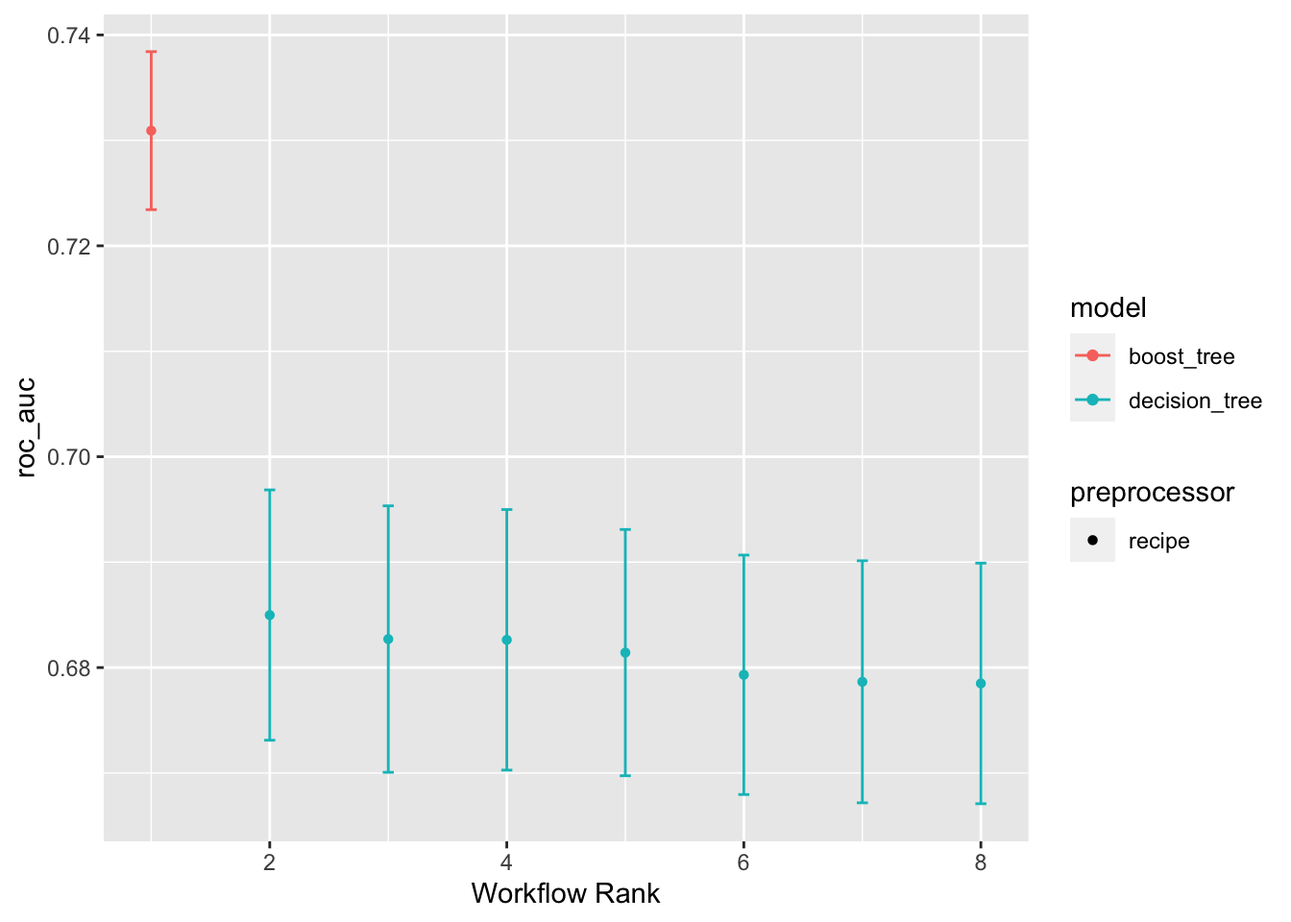
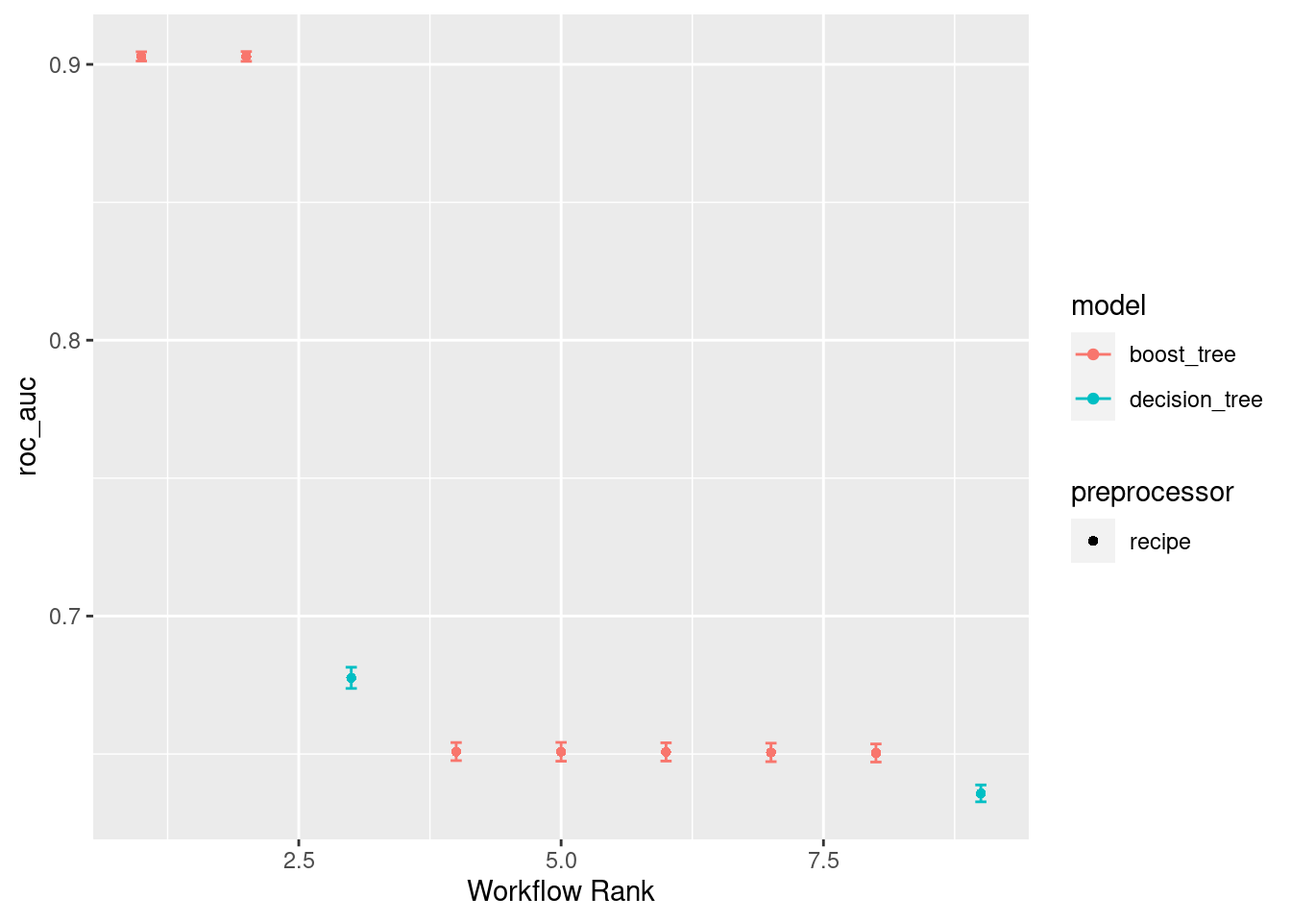
Two recipes.

diff --git a/docs/dengue-model/dengue_classification_symptoms_conditions_multi.html b/docs/dengue-model/dengue_classification_symptoms_conditions_multi.html
@@ -465,7 +465,7 @@ The following object is masked from 'package:utils':
 ✖ dplyr::lag()      masks stats::lag()
 ✖ yardstick::spec() masks readr::spec()
 ✖ recipes::step()   masks stats::step()
-• Dig deeper into tidy modeling with R at https://www.tmwr.org</code></pre>
+• Use suppressPackageStartupMessages() to eliminate package startup messages</code></pre>
 </div>
 <div class="sourceCode cell-code" id="cb7"><pre class="sourceCode r code-with-copy"><code class="sourceCode r"><span id="cb7-1"><a href="#cb7-1" aria-hidden="true" tabindex="-1"></a><span class="fu">library</span>(finetune)</span>
 <span id="cb7-2"><a href="#cb7-2" aria-hidden="true" tabindex="-1"></a><span class="fu">library</span>(tictoc)</span>
@@ -546,10 +546,16 @@ The following object is masked from 'package:utils':
 <section id="recipes" class="level3">
 <h3 class="anchored" data-anchor-id="recipes">Recipes</h3>
 <div class="cell">
-<div class="sourceCode cell-code" id="cb12"><pre class="sourceCode r code-with-copy"><code class="sourceCode r"><span id="cb12-1"><a href="#cb12-1" aria-hidden="true" tabindex="-1"></a>dengue_rec_1 <span class="ot">&lt;-</span> </span>
-<span id="cb12-2"><a href="#cb12-2" aria-hidden="true" tabindex="-1"></a>  <span class="fu">recipe</span>(CLASSI_FIN <span class="sc">~</span> . , <span class="at">data =</span> dengue_train) <span class="sc">%&gt;%</span></span>
-<span id="cb12-3"><a href="#cb12-3" aria-hidden="true" tabindex="-1"></a>  <span class="fu">step_date</span>(DT_SIN_PRI, <span class="at">features =</span> <span class="fu">c</span>(<span class="st">"month"</span>, <span class="st">"week"</span>, <span class="st">"semester"</span>, <span class="st">"quarter"</span>), <span class="at">keep_original_cols =</span> <span class="cn">FALSE</span>) <span class="sc">%&gt;%</span></span>
-<span id="cb12-4"><a href="#cb12-4" aria-hidden="true" tabindex="-1"></a>  <span class="fu">step_integer</span>(<span class="fu">all_predictors</span>())</span></code><button title="Copy to Clipboard" class="code-copy-button"><i class="bi"></i></button></pre></div>
+<div class="sourceCode cell-code" id="cb12"><pre class="sourceCode r code-with-copy"><code class="sourceCode r"><span id="cb12-1"><a href="#cb12-1" aria-hidden="true" tabindex="-1"></a><span class="co"># All variables</span></span>
+<span id="cb12-2"><a href="#cb12-2" aria-hidden="true" tabindex="-1"></a>dengue_rec_1 <span class="ot">&lt;-</span> </span>
+<span id="cb12-3"><a href="#cb12-3" aria-hidden="true" tabindex="-1"></a>  <span class="fu">recipe</span>(CLASSI_FIN <span class="sc">~</span> . , <span class="at">data =</span> dengue_train) <span class="sc">%&gt;%</span></span>
+<span id="cb12-4"><a href="#cb12-4" aria-hidden="true" tabindex="-1"></a>  <span class="fu">step_date</span>(DT_SIN_PRI, <span class="at">features =</span> <span class="fu">c</span>(<span class="st">"month"</span>, <span class="st">"week"</span>, <span class="st">"semester"</span>, <span class="st">"quarter"</span>), <span class="at">keep_original_cols =</span> <span class="cn">FALSE</span>) <span class="sc">%&gt;%</span></span>
+<span id="cb12-5"><a href="#cb12-5" aria-hidden="true" tabindex="-1"></a>  <span class="fu">step_integer</span>(<span class="fu">all_predictors</span>())</span></code><button title="Copy to Clipboard" class="code-copy-button"><i class="bi"></i></button></pre></div>
+</div>
+<div class="cell">
+<div class="sourceCode cell-code" id="cb13"><pre class="sourceCode r code-with-copy"><code class="sourceCode r"><span id="cb13-1"><a href="#cb13-1" aria-hidden="true" tabindex="-1"></a><span class="co"># Without municipality code</span></span>
+<span id="cb13-2"><a href="#cb13-2" aria-hidden="true" tabindex="-1"></a>dengue_rec_2 <span class="ot">&lt;-</span> dengue_rec_1 <span class="sc">%&gt;%</span></span>
+<span id="cb13-3"><a href="#cb13-3" aria-hidden="true" tabindex="-1"></a>  <span class="fu">step_rm</span>(COMUNINF)</span></code><button title="Copy to Clipboard" class="code-copy-button"><i class="bi"></i></button></pre></div>
 </div>
 </section>
 <section id="specifications" class="level3">
@@ -557,62 +563,62 @@ The following object is masked from 'package:utils':
 <section id="xgb" class="level4">
 <h4 class="anchored" data-anchor-id="xgb">XGB</h4>
 <div class="cell">
-<div class="sourceCode cell-code" id="cb13"><pre class="sourceCode r code-with-copy"><code class="sourceCode r"><span id="cb13-1"><a href="#cb13-1" aria-hidden="true" tabindex="-1"></a>xgb_spec <span class="ot">&lt;-</span></span>
-<span id="cb13-2"><a href="#cb13-2" aria-hidden="true" tabindex="-1"></a>  <span class="fu">boost_tree</span>(</span>
-<span id="cb13-3"><a href="#cb13-3" aria-hidden="true" tabindex="-1"></a>    <span class="at">trees =</span> <span class="fu">tune</span>(),</span>
-<span id="cb13-4"><a href="#cb13-4" aria-hidden="true" tabindex="-1"></a>    <span class="at">min_n =</span> <span class="fu">tune</span>(),</span>
-<span id="cb13-5"><a href="#cb13-5" aria-hidden="true" tabindex="-1"></a>    <span class="at">mtry =</span> <span class="fu">tune</span>(),</span>
-<span id="cb13-6"><a href="#cb13-6" aria-hidden="true" tabindex="-1"></a>    <span class="at">learn_rate =</span> <span class="fl">0.01</span></span>
-<span id="cb13-7"><a href="#cb13-7" aria-hidden="true" tabindex="-1"></a>  ) <span class="sc">%&gt;%</span></span>
-<span id="cb13-8"><a href="#cb13-8" aria-hidden="true" tabindex="-1"></a>  <span class="fu">set_engine</span>(<span class="st">"xgboost"</span>) <span class="sc">%&gt;%</span></span>
-<span id="cb13-9"><a href="#cb13-9" aria-hidden="true" tabindex="-1"></a>  <span class="fu">set_mode</span>(<span class="st">"classification"</span>)</span></code><button title="Copy to Clipboard" class="code-copy-button"><i class="bi"></i></button></pre></div>
+<div class="sourceCode cell-code" id="cb14"><pre class="sourceCode r code-with-copy"><code class="sourceCode r"><span id="cb14-1"><a href="#cb14-1" aria-hidden="true" tabindex="-1"></a>xgb_spec <span class="ot">&lt;-</span></span>
+<span id="cb14-2"><a href="#cb14-2" aria-hidden="true" tabindex="-1"></a>  <span class="fu">boost_tree</span>(</span>
+<span id="cb14-3"><a href="#cb14-3" aria-hidden="true" tabindex="-1"></a>    <span class="at">trees =</span> <span class="fu">tune</span>(),</span>
+<span id="cb14-4"><a href="#cb14-4" aria-hidden="true" tabindex="-1"></a>    <span class="at">min_n =</span> <span class="fu">tune</span>(),</span>
+<span id="cb14-5"><a href="#cb14-5" aria-hidden="true" tabindex="-1"></a>    <span class="at">mtry =</span> <span class="fu">tune</span>(),</span>
+<span id="cb14-6"><a href="#cb14-6" aria-hidden="true" tabindex="-1"></a>    <span class="at">learn_rate =</span> <span class="fl">0.01</span></span>
+<span id="cb14-7"><a href="#cb14-7" aria-hidden="true" tabindex="-1"></a>  ) <span class="sc">%&gt;%</span></span>
+<span id="cb14-8"><a href="#cb14-8" aria-hidden="true" tabindex="-1"></a>  <span class="fu">set_engine</span>(<span class="st">"xgboost"</span>) <span class="sc">%&gt;%</span></span>
+<span id="cb14-9"><a href="#cb14-9" aria-hidden="true" tabindex="-1"></a>  <span class="fu">set_mode</span>(<span class="st">"classification"</span>)</span></code><button title="Copy to Clipboard" class="code-copy-button"><i class="bi"></i></button></pre></div>
 </div>
 </section>
 <section id="decision-tree" class="level4">
 <h4 class="anchored" data-anchor-id="decision-tree">Decision tree</h4>
 <div class="cell">
-<div class="sourceCode cell-code" id="cb14"><pre class="sourceCode r code-with-copy"><code class="sourceCode r"><span id="cb14-1"><a href="#cb14-1" aria-hidden="true" tabindex="-1"></a>cart_spec <span class="ot">&lt;-</span></span>
-<span id="cb14-2"><a href="#cb14-2" aria-hidden="true" tabindex="-1"></a>  <span class="fu">decision_tree</span>(</span>
-<span id="cb14-3"><a href="#cb14-3" aria-hidden="true" tabindex="-1"></a>    <span class="at">cost_complexity =</span> <span class="fu">tune</span>(), </span>
-<span id="cb14-4"><a href="#cb14-4" aria-hidden="true" tabindex="-1"></a>    <span class="at">min_n =</span> <span class="fu">tune</span>()</span>
-<span id="cb14-5"><a href="#cb14-5" aria-hidden="true" tabindex="-1"></a>  ) <span class="sc">%&gt;%</span> </span>
-<span id="cb14-6"><a href="#cb14-6" aria-hidden="true" tabindex="-1"></a>  <span class="fu">set_engine</span>(<span class="st">"rpart"</span>) <span class="sc">%&gt;%</span> </span>
-<span id="cb14-7"><a href="#cb14-7" aria-hidden="true" tabindex="-1"></a>  <span class="fu">set_mode</span>(<span class="st">"classification"</span>)</span></code><button title="Copy to Clipboard" class="code-copy-button"><i class="bi"></i></button></pre></div>
+<div class="sourceCode cell-code" id="cb15"><pre class="sourceCode r code-with-copy"><code class="sourceCode r"><span id="cb15-1"><a href="#cb15-1" aria-hidden="true" tabindex="-1"></a>cart_spec <span class="ot">&lt;-</span></span>
+<span id="cb15-2"><a href="#cb15-2" aria-hidden="true" tabindex="-1"></a>  <span class="fu">decision_tree</span>(</span>
+<span id="cb15-3"><a href="#cb15-3" aria-hidden="true" tabindex="-1"></a>    <span class="at">cost_complexity =</span> <span class="fu">tune</span>(), </span>
+<span id="cb15-4"><a href="#cb15-4" aria-hidden="true" tabindex="-1"></a>    <span class="at">min_n =</span> <span class="fu">tune</span>()</span>
+<span id="cb15-5"><a href="#cb15-5" aria-hidden="true" tabindex="-1"></a>  ) <span class="sc">%&gt;%</span> </span>
+<span id="cb15-6"><a href="#cb15-6" aria-hidden="true" tabindex="-1"></a>  <span class="fu">set_engine</span>(<span class="st">"rpart"</span>) <span class="sc">%&gt;%</span> </span>
+<span id="cb15-7"><a href="#cb15-7" aria-hidden="true" tabindex="-1"></a>  <span class="fu">set_mode</span>(<span class="st">"classification"</span>)</span></code><button title="Copy to Clipboard" class="code-copy-button"><i class="bi"></i></button></pre></div>
 </div>
 </section>
 </section>
 <section id="workflows" class="level3">
 <h3 class="anchored" data-anchor-id="workflows">Workflows</h3>
 <div class="cell">
-<div class="sourceCode cell-code" id="cb15"><pre class="sourceCode r code-with-copy"><code class="sourceCode r"><span id="cb15-1"><a href="#cb15-1" aria-hidden="true" tabindex="-1"></a>all_workflows <span class="ot">&lt;-</span> </span>
-<span id="cb15-2"><a href="#cb15-2" aria-hidden="true" tabindex="-1"></a>  <span class="fu">workflow_set</span>(</span>
-<span id="cb15-3"><a href="#cb15-3" aria-hidden="true" tabindex="-1"></a>    <span class="at">preproc =</span> <span class="fu">list</span>(<span class="at">recipe_1 =</span> dengue_rec_1),</span>
-<span id="cb15-4"><a href="#cb15-4" aria-hidden="true" tabindex="-1"></a>    <span class="at">models =</span> <span class="fu">list</span>(<span class="at">xgb =</span> xgb_spec, <span class="at">cart =</span> cart_spec)</span>
-<span id="cb15-5"><a href="#cb15-5" aria-hidden="true" tabindex="-1"></a>  )</span></code><button title="Copy to Clipboard" class="code-copy-button"><i class="bi"></i></button></pre></div>
+<div class="sourceCode cell-code" id="cb16"><pre class="sourceCode r code-with-copy"><code class="sourceCode r"><span id="cb16-1"><a href="#cb16-1" aria-hidden="true" tabindex="-1"></a>all_workflows <span class="ot">&lt;-</span> </span>
+<span id="cb16-2"><a href="#cb16-2" aria-hidden="true" tabindex="-1"></a>  <span class="fu">workflow_set</span>(</span>
+<span id="cb16-3"><a href="#cb16-3" aria-hidden="true" tabindex="-1"></a>    <span class="at">preproc =</span> <span class="fu">list</span>(<span class="at">recipe_1 =</span> dengue_rec_1, <span class="at">recipe_2 =</span> dengue_rec_2),</span>
+<span id="cb16-4"><a href="#cb16-4" aria-hidden="true" tabindex="-1"></a>    <span class="at">models =</span> <span class="fu">list</span>(<span class="at">xgb =</span> xgb_spec, <span class="at">cart =</span> cart_spec)</span>
+<span id="cb16-5"><a href="#cb16-5" aria-hidden="true" tabindex="-1"></a>  )</span></code><button title="Copy to Clipboard" class="code-copy-button"><i class="bi"></i></button></pre></div>
 </div>
 </section>
 <section id="tuning" class="level3">
 <h3 class="anchored" data-anchor-id="tuning">Tuning</h3>
 <div class="cell">
-<div class="sourceCode cell-code" id="cb16"><pre class="sourceCode r code-with-copy"><code class="sourceCode r"><span id="cb16-1"><a href="#cb16-1" aria-hidden="true" tabindex="-1"></a>doParallel<span class="sc">::</span><span class="fu">registerDoParallel</span>()</span>
-<span id="cb16-2"><a href="#cb16-2" aria-hidden="true" tabindex="-1"></a></span>
-<span id="cb16-3"><a href="#cb16-3" aria-hidden="true" tabindex="-1"></a>race_ctrl <span class="ot">&lt;-</span></span>
-<span id="cb16-4"><a href="#cb16-4" aria-hidden="true" tabindex="-1"></a>   <span class="fu">control_race</span>(</span>
-<span id="cb16-5"><a href="#cb16-5" aria-hidden="true" tabindex="-1"></a>      <span class="at">save_pred =</span> <span class="cn">TRUE</span>,</span>
-<span id="cb16-6"><a href="#cb16-6" aria-hidden="true" tabindex="-1"></a>      <span class="at">parallel_over =</span> <span class="st">"everything"</span>,</span>
-<span id="cb16-7"><a href="#cb16-7" aria-hidden="true" tabindex="-1"></a>      <span class="at">save_workflow =</span> <span class="cn">TRUE</span></span>
-<span id="cb16-8"><a href="#cb16-8" aria-hidden="true" tabindex="-1"></a>   )</span>
-<span id="cb16-9"><a href="#cb16-9" aria-hidden="true" tabindex="-1"></a></span>
-<span id="cb16-10"><a href="#cb16-10" aria-hidden="true" tabindex="-1"></a><span class="fu">tic</span>()</span>
-<span id="cb16-11"><a href="#cb16-11" aria-hidden="true" tabindex="-1"></a>race_results <span class="ot">&lt;-</span> </span>
-<span id="cb16-12"><a href="#cb16-12" aria-hidden="true" tabindex="-1"></a>  all_workflows <span class="sc">%&gt;%</span></span>
-<span id="cb16-13"><a href="#cb16-13" aria-hidden="true" tabindex="-1"></a>  <span class="fu">workflow_map</span>(</span>
-<span id="cb16-14"><a href="#cb16-14" aria-hidden="true" tabindex="-1"></a>    <span class="st">"tune_race_anova"</span>,</span>
-<span id="cb16-15"><a href="#cb16-15" aria-hidden="true" tabindex="-1"></a>    <span class="at">seed =</span> <span class="dv">345</span>,</span>
-<span id="cb16-16"><a href="#cb16-16" aria-hidden="true" tabindex="-1"></a>    <span class="at">resamples =</span> dengue_folds,</span>
-<span id="cb16-17"><a href="#cb16-17" aria-hidden="true" tabindex="-1"></a>    <span class="at">grid =</span> <span class="dv">15</span>,</span>
-<span id="cb16-18"><a href="#cb16-18" aria-hidden="true" tabindex="-1"></a>    <span class="at">control =</span> race_ctrl</span>
-<span id="cb16-19"><a href="#cb16-19" aria-hidden="true" tabindex="-1"></a>  )</span></code><button title="Copy to Clipboard" class="code-copy-button"><i class="bi"></i></button></pre></div>
+<div class="sourceCode cell-code" id="cb17"><pre class="sourceCode r code-with-copy"><code class="sourceCode r"><span id="cb17-1"><a href="#cb17-1" aria-hidden="true" tabindex="-1"></a>doParallel<span class="sc">::</span><span class="fu">registerDoParallel</span>()</span>
+<span id="cb17-2"><a href="#cb17-2" aria-hidden="true" tabindex="-1"></a></span>
+<span id="cb17-3"><a href="#cb17-3" aria-hidden="true" tabindex="-1"></a>race_ctrl <span class="ot">&lt;-</span></span>
+<span id="cb17-4"><a href="#cb17-4" aria-hidden="true" tabindex="-1"></a>   <span class="fu">control_race</span>(</span>
+<span id="cb17-5"><a href="#cb17-5" aria-hidden="true" tabindex="-1"></a>      <span class="at">save_pred =</span> <span class="cn">TRUE</span>,</span>
+<span id="cb17-6"><a href="#cb17-6" aria-hidden="true" tabindex="-1"></a>      <span class="at">parallel_over =</span> <span class="st">"everything"</span>,</span>
+<span id="cb17-7"><a href="#cb17-7" aria-hidden="true" tabindex="-1"></a>      <span class="at">save_workflow =</span> <span class="cn">TRUE</span></span>
+<span id="cb17-8"><a href="#cb17-8" aria-hidden="true" tabindex="-1"></a>   )</span>
+<span id="cb17-9"><a href="#cb17-9" aria-hidden="true" tabindex="-1"></a></span>
+<span id="cb17-10"><a href="#cb17-10" aria-hidden="true" tabindex="-1"></a><span class="fu">tic</span>()</span>
+<span id="cb17-11"><a href="#cb17-11" aria-hidden="true" tabindex="-1"></a>race_results <span class="ot">&lt;-</span> </span>
+<span id="cb17-12"><a href="#cb17-12" aria-hidden="true" tabindex="-1"></a>  all_workflows <span class="sc">%&gt;%</span></span>
+<span id="cb17-13"><a href="#cb17-13" aria-hidden="true" tabindex="-1"></a>  <span class="fu">workflow_map</span>(</span>
+<span id="cb17-14"><a href="#cb17-14" aria-hidden="true" tabindex="-1"></a>    <span class="st">"tune_race_anova"</span>,</span>
+<span id="cb17-15"><a href="#cb17-15" aria-hidden="true" tabindex="-1"></a>    <span class="at">seed =</span> <span class="dv">345</span>,</span>
+<span id="cb17-16"><a href="#cb17-16" aria-hidden="true" tabindex="-1"></a>    <span class="at">resamples =</span> dengue_folds,</span>
+<span id="cb17-17"><a href="#cb17-17" aria-hidden="true" tabindex="-1"></a>    <span class="at">grid =</span> <span class="dv">15</span>,</span>
+<span id="cb17-18"><a href="#cb17-18" aria-hidden="true" tabindex="-1"></a>    <span class="at">control =</span> race_ctrl</span>
+<span id="cb17-19"><a href="#cb17-19" aria-hidden="true" tabindex="-1"></a>  )</span></code><button title="Copy to Clipboard" class="code-copy-button"><i class="bi"></i></button></pre></div>
 <div class="cell-output cell-output-stderr">
 <pre><code>i Creating pre-processing data to finalize unknown parameter: mtry</code></pre>
 </div>
@@ -661,38 +667,88 @@ this was not intentional, please set the control setting ℹ `save_workflow =
 FALSE`.
 ℹ The workflow being saved contains a recipe, which is 7.48 Mb in ℹ memory. If
 this was not intentional, please set the control setting ℹ `save_workflow =
+FALSE`.</code></pre>
+</div>
+<div class="cell-output cell-output-stderr">
+<pre><code>i Creating pre-processing data to finalize unknown parameter: mtry</code></pre>
+</div>
+<div class="cell-output cell-output-stderr">
+<pre><code>ℹ The workflow being saved contains a recipe, which is 7.48 Mb in ℹ memory. If
+this was not intentional, please set the control setting ℹ `save_workflow =
+FALSE`.
+ℹ The workflow being saved contains a recipe, which is 7.48 Mb in ℹ memory. If
+this was not intentional, please set the control setting ℹ `save_workflow =
+FALSE`.
+ℹ The workflow being saved contains a recipe, which is 7.48 Mb in ℹ memory. If
+this was not intentional, please set the control setting ℹ `save_workflow =
+FALSE`.
+ℹ The workflow being saved contains a recipe, which is 7.48 Mb in ℹ memory. If
+this was not intentional, please set the control setting ℹ `save_workflow =
+FALSE`.
+ℹ The workflow being saved contains a recipe, which is 7.48 Mb in ℹ memory. If
+this was not intentional, please set the control setting ℹ `save_workflow =
+FALSE`.
+ℹ The workflow being saved contains a recipe, which is 7.48 Mb in ℹ memory. If
+this was not intentional, please set the control setting ℹ `save_workflow =
+FALSE`.
+ℹ The workflow being saved contains a recipe, which is 7.48 Mb in ℹ memory. If
+this was not intentional, please set the control setting ℹ `save_workflow =
+FALSE`.
+ℹ The workflow being saved contains a recipe, which is 7.48 Mb in ℹ memory. If
+this was not intentional, please set the control setting ℹ `save_workflow =
+FALSE`.
+ℹ The workflow being saved contains a recipe, which is 7.48 Mb in ℹ memory. If
+this was not intentional, please set the control setting ℹ `save_workflow =
+FALSE`.
+ℹ The workflow being saved contains a recipe, which is 7.48 Mb in ℹ memory. If
+this was not intentional, please set the control setting ℹ `save_workflow =
+FALSE`.
+ℹ The workflow being saved contains a recipe, which is 7.48 Mb in ℹ memory. If
+this was not intentional, please set the control setting ℹ `save_workflow =
 FALSE`.
 ℹ The workflow being saved contains a recipe, which is 7.48 Mb in ℹ memory. If
 this was not intentional, please set the control setting ℹ `save_workflow =
 FALSE`.</code></pre>
 </div>
-<div class="sourceCode cell-code" id="cb19"><pre class="sourceCode r code-with-copy"><code class="sourceCode r"><span id="cb19-1"><a href="#cb19-1" aria-hidden="true" tabindex="-1"></a><span class="fu">toc</span>()</span></code><button title="Copy to Clipboard" class="code-copy-button"><i class="bi"></i></button></pre></div>
+<div class="sourceCode cell-code" id="cb22"><pre class="sourceCode r code-with-copy"><code class="sourceCode r"><span id="cb22-1"><a href="#cb22-1" aria-hidden="true" tabindex="-1"></a><span class="fu">toc</span>()</span></code><button title="Copy to Clipboard" class="code-copy-button"><i class="bi"></i></button></pre></div>
 <div class="cell-output cell-output-stdout">
-<pre><code>700.27 sec elapsed</code></pre>
+<pre><code>1622.714 sec elapsed</code></pre>
 </div>
 </div>
 <section id="race-metrics" class="level4">
 <h4 class="anchored" data-anchor-id="race-metrics">Race metrics</h4>
 <div class="cell">
-<div class="sourceCode cell-code" id="cb21"><pre class="sourceCode r code-with-copy"><code class="sourceCode r"><span id="cb21-1"><a href="#cb21-1" aria-hidden="true" tabindex="-1"></a>train_rank_results <span class="ot">&lt;-</span> <span class="fu">rank_results</span>(race_results, <span class="at">rank_metric =</span> <span class="st">"roc_auc"</span>)</span>
-<span id="cb21-2"><a href="#cb21-2" aria-hidden="true" tabindex="-1"></a></span>
-<span id="cb21-3"><a href="#cb21-3" aria-hidden="true" tabindex="-1"></a>train_rank_results</span></code><button title="Copy to Clipboard" class="code-copy-button"><i class="bi"></i></button></pre></div>
+<div class="sourceCode cell-code" id="cb24"><pre class="sourceCode r code-with-copy"><code class="sourceCode r"><span id="cb24-1"><a href="#cb24-1" aria-hidden="true" tabindex="-1"></a>train_rank_results <span class="ot">&lt;-</span> <span class="fu">rank_results</span>(race_results, <span class="at">rank_metric =</span> <span class="st">"roc_auc"</span>)</span>
+<span id="cb24-2"><a href="#cb24-2" aria-hidden="true" tabindex="-1"></a></span>
+<span id="cb24-3"><a href="#cb24-3" aria-hidden="true" tabindex="-1"></a>train_rank_results</span></code><button title="Copy to Clipboard" class="code-copy-button"><i class="bi"></i></button></pre></div>
 <div class="cell-output cell-output-stdout">
-<pre><code># A tibble: 6 × 9
-  wflow_id      .config     .metric  mean std_err     n preprocessor model  rank
-  &lt;chr&gt;         &lt;chr&gt;       &lt;chr&gt;   &lt;dbl&gt;   &lt;dbl&gt; &lt;int&gt; &lt;chr&gt;        &lt;chr&gt; &lt;int&gt;
-1 recipe_1_xgb  Preprocess… accura… 0.848 1.17e-3    10 recipe       boos…     1
-2 recipe_1_xgb  Preprocess… roc_auc 0.904 9.33e-4    10 recipe       boos…     1
-3 recipe_1_xgb  Preprocess… accura… 0.848 1.12e-3    10 recipe       boos…     2
-4 recipe_1_xgb  Preprocess… roc_auc 0.904 9.66e-4    10 recipe       boos…     2
-5 recipe_1_cart Preprocess… accura… 0.635 1.45e-3    10 recipe       deci…     3
-6 recipe_1_cart Preprocess… roc_auc 0.677 2.53e-3    10 recipe       deci…     3</code></pre>
+<pre><code># A tibble: 18 × 9
+   wflow_id      .config    .metric  mean std_err     n preprocessor model  rank
+   &lt;chr&gt;         &lt;chr&gt;      &lt;chr&gt;   &lt;dbl&gt;   &lt;dbl&gt; &lt;int&gt; &lt;chr&gt;        &lt;chr&gt; &lt;int&gt;
+ 1 recipe_1_xgb  Preproces… accura… 0.846 0.00101    10 recipe       boos…     1
+ 2 recipe_1_xgb  Preproces… roc_auc 0.903 0.00101    10 recipe       boos…     1
+ 3 recipe_1_xgb  Preproces… accura… 0.845 0.00103    10 recipe       boos…     2
+ 4 recipe_1_xgb  Preproces… roc_auc 0.903 0.00108    10 recipe       boos…     2
+ 5 recipe_1_cart Preproces… accura… 0.636 0.00204    10 recipe       deci…     3
+ 6 recipe_1_cart Preproces… roc_auc 0.678 0.00233    10 recipe       deci…     3
+ 7 recipe_2_xgb  Preproces… accura… 0.631 0.00153    10 recipe       boos…     4
+ 8 recipe_2_xgb  Preproces… roc_auc 0.651 0.00198    10 recipe       boos…     4
+ 9 recipe_2_xgb  Preproces… accura… 0.631 0.00172    10 recipe       boos…     5
+10 recipe_2_xgb  Preproces… roc_auc 0.651 0.00207    10 recipe       boos…     5
+11 recipe_2_xgb  Preproces… accura… 0.630 0.00180    10 recipe       boos…     6
+12 recipe_2_xgb  Preproces… roc_auc 0.651 0.00201    10 recipe       boos…     6
+13 recipe_2_xgb  Preproces… accura… 0.630 0.00156    10 recipe       boos…     7
+14 recipe_2_xgb  Preproces… roc_auc 0.651 0.00204    10 recipe       boos…     7
+15 recipe_2_xgb  Preproces… accura… 0.630 0.00160    10 recipe       boos…     8
+16 recipe_2_xgb  Preproces… roc_auc 0.650 0.00200    10 recipe       boos…     8
+17 recipe_2_cart Preproces… accura… 0.624 0.00170    10 recipe       deci…     9
+18 recipe_2_cart Preproces… roc_auc 0.636 0.00186    10 recipe       deci…     9</code></pre>
 </div>
 </div>
 <div class="cell">
-<div class="sourceCode cell-code" id="cb23"><pre class="sourceCode r code-with-copy"><code class="sourceCode r"><span id="cb23-1"><a href="#cb23-1" aria-hidden="true" tabindex="-1"></a><span class="fu">autoplot</span>(race_results, <span class="at">metric =</span> <span class="st">"roc_auc"</span>)</span></code><button title="Copy to Clipboard" class="code-copy-button"><i class="bi"></i></button></pre></div>
+<div class="sourceCode cell-code" id="cb26"><pre class="sourceCode r code-with-copy"><code class="sourceCode r"><span id="cb26-1"><a href="#cb26-1" aria-hidden="true" tabindex="-1"></a><span class="fu">autoplot</span>(race_results, <span class="at">metric =</span> <span class="st">"roc_auc"</span>)</span></code><button title="Copy to Clipboard" class="code-copy-button"><i class="bi"></i></button></pre></div>
 <div class="cell-output-display">
-<p><img src="dengue_classification_symptoms_conditions_multi_files/figure-html/unnamed-chunk-11-1.png" class="img-fluid" width="672"></p>
+<p><img src="dengue_classification_symptoms_conditions_multi_files/figure-html/unnamed-chunk-12-1.png" class="img-fluid" width="672"></p>
 </div>
 </div>
 </section>
@@ -700,22 +756,22 @@ FALSE`.</code></pre>
 <section id="last-fit" class="level3">
 <h3 class="anchored" data-anchor-id="last-fit">Last fit</h3>
 <div class="cell">
-<div class="sourceCode cell-code" id="cb24"><pre class="sourceCode r code-with-copy"><code class="sourceCode r"><span id="cb24-1"><a href="#cb24-1" aria-hidden="true" tabindex="-1"></a>selection_train <span class="ot">&lt;-</span> train_rank_results <span class="sc">%&gt;%</span></span>
-<span id="cb24-2"><a href="#cb24-2" aria-hidden="true" tabindex="-1"></a>  <span class="fu">arrange</span>(<span class="sc">-</span>mean) <span class="sc">%&gt;%</span></span>
-<span id="cb24-3"><a href="#cb24-3" aria-hidden="true" tabindex="-1"></a>  <span class="fu">pull</span>(wflow_id) <span class="sc">%&gt;%</span></span>
-<span id="cb24-4"><a href="#cb24-4" aria-hidden="true" tabindex="-1"></a>  <span class="fu">first</span>()</span>
-<span id="cb24-5"><a href="#cb24-5" aria-hidden="true" tabindex="-1"></a></span>
-<span id="cb24-6"><a href="#cb24-6" aria-hidden="true" tabindex="-1"></a>selection_train</span></code><button title="Copy to Clipboard" class="code-copy-button"><i class="bi"></i></button></pre></div>
+<div class="sourceCode cell-code" id="cb27"><pre class="sourceCode r code-with-copy"><code class="sourceCode r"><span id="cb27-1"><a href="#cb27-1" aria-hidden="true" tabindex="-1"></a>selection_train <span class="ot">&lt;-</span> train_rank_results <span class="sc">%&gt;%</span></span>
+<span id="cb27-2"><a href="#cb27-2" aria-hidden="true" tabindex="-1"></a>  <span class="fu">arrange</span>(<span class="sc">-</span>mean) <span class="sc">%&gt;%</span></span>
+<span id="cb27-3"><a href="#cb27-3" aria-hidden="true" tabindex="-1"></a>  <span class="fu">pull</span>(wflow_id) <span class="sc">%&gt;%</span></span>
+<span id="cb27-4"><a href="#cb27-4" aria-hidden="true" tabindex="-1"></a>  <span class="fu">first</span>()</span>
+<span id="cb27-5"><a href="#cb27-5" aria-hidden="true" tabindex="-1"></a></span>
+<span id="cb27-6"><a href="#cb27-6" aria-hidden="true" tabindex="-1"></a>selection_train</span></code><button title="Copy to Clipboard" class="code-copy-button"><i class="bi"></i></button></pre></div>
 <div class="cell-output cell-output-stdout">
 <pre><code>[1] "recipe_1_xgb"</code></pre>
 </div>
 </div>
 <div class="cell">
-<div class="sourceCode cell-code" id="cb26"><pre class="sourceCode r code-with-copy"><code class="sourceCode r"><span id="cb26-1"><a href="#cb26-1" aria-hidden="true" tabindex="-1"></a>best_results <span class="ot">&lt;-</span> race_results <span class="sc">%&gt;%</span></span>
-<span id="cb26-2"><a href="#cb26-2" aria-hidden="true" tabindex="-1"></a>  <span class="fu">extract_workflow_set_result</span>(selection_train) <span class="sc">%&gt;%</span></span>
-<span id="cb26-3"><a href="#cb26-3" aria-hidden="true" tabindex="-1"></a>  <span class="fu">select_best</span>(<span class="st">"accuracy"</span>)</span>
-<span id="cb26-4"><a href="#cb26-4" aria-hidden="true" tabindex="-1"></a></span>
-<span id="cb26-5"><a href="#cb26-5" aria-hidden="true" tabindex="-1"></a>best_results</span></code><button title="Copy to Clipboard" class="code-copy-button"><i class="bi"></i></button></pre></div>
+<div class="sourceCode cell-code" id="cb29"><pre class="sourceCode r code-with-copy"><code class="sourceCode r"><span id="cb29-1"><a href="#cb29-1" aria-hidden="true" tabindex="-1"></a>best_results <span class="ot">&lt;-</span> race_results <span class="sc">%&gt;%</span></span>
+<span id="cb29-2"><a href="#cb29-2" aria-hidden="true" tabindex="-1"></a>  <span class="fu">extract_workflow_set_result</span>(selection_train) <span class="sc">%&gt;%</span></span>
+<span id="cb29-3"><a href="#cb29-3" aria-hidden="true" tabindex="-1"></a>  <span class="fu">select_best</span>(<span class="st">"accuracy"</span>)</span>
+<span id="cb29-4"><a href="#cb29-4" aria-hidden="true" tabindex="-1"></a></span>
+<span id="cb29-5"><a href="#cb29-5" aria-hidden="true" tabindex="-1"></a>best_results</span></code><button title="Copy to Clipboard" class="code-copy-button"><i class="bi"></i></button></pre></div>
 <div class="cell-output cell-output-stdout">
 <pre><code># A tibble: 1 × 4
    mtry trees min_n .config              
@@ -724,40 +780,40 @@ FALSE`.</code></pre>
 </div>
 </div>
 <div class="cell">
-<div class="sourceCode cell-code" id="cb28"><pre class="sourceCode r code-with-copy"><code class="sourceCode r"><span id="cb28-1"><a href="#cb28-1" aria-hidden="true" tabindex="-1"></a>last_fit <span class="ot">&lt;-</span> race_results <span class="sc">%&gt;%</span></span>
-<span id="cb28-2"><a href="#cb28-2" aria-hidden="true" tabindex="-1"></a>  <span class="fu">extract_workflow</span>(selection_train) <span class="sc">%&gt;%</span></span>
-<span id="cb28-3"><a href="#cb28-3" aria-hidden="true" tabindex="-1"></a>  <span class="fu">finalize_workflow</span>(best_results) <span class="sc">%&gt;%</span></span>
-<span id="cb28-4"><a href="#cb28-4" aria-hidden="true" tabindex="-1"></a>  <span class="fu">last_fit</span>(dengue_split)</span></code><button title="Copy to Clipboard" class="code-copy-button"><i class="bi"></i></button></pre></div>
+<div class="sourceCode cell-code" id="cb31"><pre class="sourceCode r code-with-copy"><code class="sourceCode r"><span id="cb31-1"><a href="#cb31-1" aria-hidden="true" tabindex="-1"></a>last_fit <span class="ot">&lt;-</span> race_results <span class="sc">%&gt;%</span></span>
+<span id="cb31-2"><a href="#cb31-2" aria-hidden="true" tabindex="-1"></a>  <span class="fu">extract_workflow</span>(selection_train) <span class="sc">%&gt;%</span></span>
+<span id="cb31-3"><a href="#cb31-3" aria-hidden="true" tabindex="-1"></a>  <span class="fu">finalize_workflow</span>(best_results) <span class="sc">%&gt;%</span></span>
+<span id="cb31-4"><a href="#cb31-4" aria-hidden="true" tabindex="-1"></a>  <span class="fu">last_fit</span>(dengue_split)</span></code><button title="Copy to Clipboard" class="code-copy-button"><i class="bi"></i></button></pre></div>
 </div>
 </section>
 <section id="evaluate-on-test" class="level3">
 <h3 class="anchored" data-anchor-id="evaluate-on-test">Evaluate on test</h3>
 <div class="cell">
-<div class="sourceCode cell-code" id="cb29"><pre class="sourceCode r code-with-copy"><code class="sourceCode r"><span id="cb29-1"><a href="#cb29-1" aria-hidden="true" tabindex="-1"></a><span class="fu">collect_metrics</span>(last_fit)</span></code><button title="Copy to Clipboard" class="code-copy-button"><i class="bi"></i></button></pre></div>
+<div class="sourceCode cell-code" id="cb32"><pre class="sourceCode r code-with-copy"><code class="sourceCode r"><span id="cb32-1"><a href="#cb32-1" aria-hidden="true" tabindex="-1"></a><span class="fu">collect_metrics</span>(last_fit)</span></code><button title="Copy to Clipboard" class="code-copy-button"><i class="bi"></i></button></pre></div>
 <div class="cell-output cell-output-stdout">
 <pre><code># A tibble: 2 × 4
   .metric  .estimator .estimate .config             
   &lt;chr&gt;    &lt;chr&gt;          &lt;dbl&gt; &lt;chr&gt;               
-1 accuracy binary         0.847 Preprocessor1_Model1
-2 roc_auc  binary         0.905 Preprocessor1_Model1</code></pre>
+1 accuracy binary         0.848 Preprocessor1_Model1
+2 roc_auc  binary         0.903 Preprocessor1_Model1</code></pre>
 </div>
 </div>
 <div class="cell">
-<div class="sourceCode cell-code" id="cb31"><pre class="sourceCode r code-with-copy"><code class="sourceCode r"><span id="cb31-1"><a href="#cb31-1" aria-hidden="true" tabindex="-1"></a><span class="fu">collect_predictions</span>(last_fit) <span class="sc">%&gt;%</span></span>
-<span id="cb31-2"><a href="#cb31-2" aria-hidden="true" tabindex="-1"></a>    <span class="fu">conf_mat</span>(CLASSI_FIN, .pred_class)</span></code><button title="Copy to Clipboard" class="code-copy-button"><i class="bi"></i></button></pre></div>
+<div class="sourceCode cell-code" id="cb34"><pre class="sourceCode r code-with-copy"><code class="sourceCode r"><span id="cb34-1"><a href="#cb34-1" aria-hidden="true" tabindex="-1"></a><span class="fu">collect_predictions</span>(last_fit) <span class="sc">%&gt;%</span></span>
+<span id="cb34-2"><a href="#cb34-2" aria-hidden="true" tabindex="-1"></a>    <span class="fu">conf_mat</span>(CLASSI_FIN, .pred_class)</span></code><button title="Copy to Clipboard" class="code-copy-button"><i class="bi"></i></button></pre></div>
 <div class="cell-output cell-output-stdout">
 <pre><code>          Truth
 Prediction FALSE  TRUE
-     FALSE 10434  3590
-     TRUE    229 10748</code></pre>
+     FALSE 10414  3561
+     TRUE    237 10789</code></pre>
 </div>
 </div>
 <div class="cell">
-<div class="sourceCode cell-code" id="cb33"><pre class="sourceCode r code-with-copy"><code class="sourceCode r"><span id="cb33-1"><a href="#cb33-1" aria-hidden="true" tabindex="-1"></a>last_fit <span class="sc">%&gt;%</span></span>
-<span id="cb33-2"><a href="#cb33-2" aria-hidden="true" tabindex="-1"></a>  <span class="fu">extract_fit_engine</span>() <span class="sc">%&gt;%</span></span>
-<span id="cb33-3"><a href="#cb33-3" aria-hidden="true" tabindex="-1"></a>  <span class="fu">vip</span>()</span></code><button title="Copy to Clipboard" class="code-copy-button"><i class="bi"></i></button></pre></div>
+<div class="sourceCode cell-code" id="cb36"><pre class="sourceCode r code-with-copy"><code class="sourceCode r"><span id="cb36-1"><a href="#cb36-1" aria-hidden="true" tabindex="-1"></a>last_fit <span class="sc">%&gt;%</span></span>
+<span id="cb36-2"><a href="#cb36-2" aria-hidden="true" tabindex="-1"></a>  <span class="fu">extract_fit_engine</span>() <span class="sc">%&gt;%</span></span>
+<span id="cb36-3"><a href="#cb36-3" aria-hidden="true" tabindex="-1"></a>  <span class="fu">vip</span>()</span></code><button title="Copy to Clipboard" class="code-copy-button"><i class="bi"></i></button></pre></div>
 <div class="cell-output-display">
-<p><img src="dengue_classification_symptoms_conditions_multi_files/figure-html/unnamed-chunk-17-1.png" class="img-fluid" width="672"></p>
+<p><img src="dengue_classification_symptoms_conditions_multi_files/figure-html/unnamed-chunk-18-1.png" class="img-fluid" width="672"></p>
 </div>
 </div>
 </section>
@@ -765,7 +821,7 @@ Prediction FALSE  TRUE
 <section id="session-info" class="level2">
 <h2 class="anchored" data-anchor-id="session-info">Session info</h2>
 <div class="cell">
-<div class="sourceCode cell-code" id="cb34"><pre class="sourceCode r code-with-copy"><code class="sourceCode r"><span id="cb34-1"><a href="#cb34-1" aria-hidden="true" tabindex="-1"></a><span class="fu">sessionInfo</span>()</span></code><button title="Copy to Clipboard" class="code-copy-button"><i class="bi"></i></button></pre></div>
+<div class="sourceCode cell-code" id="cb37"><pre class="sourceCode r code-with-copy"><code class="sourceCode r"><span id="cb37-1"><a href="#cb37-1" aria-hidden="true" tabindex="-1"></a><span class="fu">sessionInfo</span>()</span></code><button title="Copy to Clipboard" class="code-copy-button"><i class="bi"></i></button></pre></div>
 <div class="cell-output cell-output-stdout">
 <pre><code>R version 4.1.2 (2021-11-01)
 Platform: x86_64-pc-linux-gnu (64-bit)
